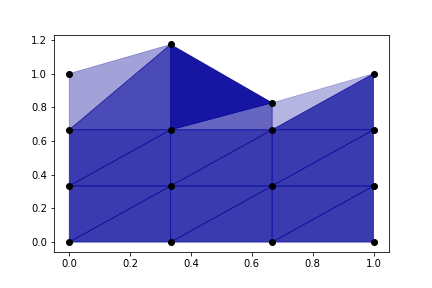
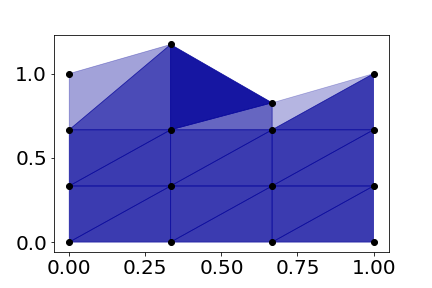
Malha Identificando Contornos

diff --git a/MalhaComContorno.py b/MalhaComContorno.py
@@ -1,0 +1,139 @@
+# -*- coding: utf-8 -*-
+"""
+Created on Wed Jul 28 23:14:35 2021
+
+@author: matheus.sartor
+"""
+
+import os
+from pathlib import Path
+import matplotlib.pyplot as plt
+import numpy as np
+import matplotlib
+       
+def getXYRandom(nx=6,ny=7,Lx = 1, Ly = 1):
+    X = np.random.uniform(0.0,Lx,(nx*ny,1))
+    X = (np.transpose(X.reshape(nx*ny)))
+
+    Y = np.random.uniform(0.0,Ly,(nx*ny,1))
+    Y = (np.transpose(Y.reshape(nx*ny)))
+    Tri = matplotlib.tri.Triangulation(X,Y)
+    return X,Y,Tri
+
+def plotMalhaTri(X,Y,Tri):
+    name = 'MalhaTriangularComContorno'
+    Path(os.path.join('results', name)).mkdir(parents=True, exist_ok=True)
+    IEN = Tri.triangles
+    borda = verificaBorda(X, Y, IEN)
+    ne = IEN.shape[0]
+    npoints = X.shape[0]
+    crit_list = []
+    for e in range(0,ne):
+        [v1,v2,v3] = IEN[e]
+        x1 = X[v1]; x2 = X[v2]; x3 = X[v3]
+        y1 = Y[v1]; y2 = Y[v2]; y3 = Y[v3]
+        a = np.sqrt((x3-x2)**2+(y3-y2)**2)
+        b = np.sqrt((x3-x1)**2+(y3-y1)**2)
+        c = np.sqrt((x2-x1)**2+(y2-y1)**2)
+        s = (a + b + c)/2
+        A = np.sqrt(s*(s-a)*(s-b)*(s-c)) # Formula de Heron
+        ha = 2*A/a
+        hb = 2*A/b
+        hc = 2*A/c
+        crit = ((ha*hb*hc)/(a*b*c))/((np.sqrt(3)/2)**3)
+        crit_list.append(crit)
+        
+    fig, ax = plt.subplots()
+    fig.set_size_inches(10, 10)
+    xy = np.stack((X, Y), axis=-1)
+    verts = xy[borda]
+    ax=plt.gca()
+    pc = matplotlib.collections.PolyCollection(verts,edgecolors=('black',),
+                                               facecolor = 'none',
+                                                 linewidths=(5))
+    ax.add_collection(pc)
+    ax.set_title("Malha de Triângulos Com Contorno")
+    plt.plot(X,Y,'ko')
+    ax = plt.triplot(X,Y,IEN,color='k',linewidth=0.5)
+    ax = plt.plot(X,Y,'ko',markersize=2)
+    for i in range(0,npoints):
+       plt.text(X[i]+0.01,Y[i]+0.01,str(i),size = 'x-small',color='k')
+    for e in range(0,ne):
+        [v1,v2,v3] = IEN[e]
+        xm = ( X[v1]+X[v2]+X[v3] )/3.0
+        ym = ( Y[v1]+Y[v2]+Y[v3] )/3.0
+        draw_circle = plt.Circle((xm+0.01, ym+0.01), 0.025, fill=False, color='gray')
+        plt.text(xm,ym,str(e),size='xx-small',color='gray')
+        plt.gcf().gca().add_artist(draw_circle)
+    plt.gca().set_aspect('equal')
+    plt.tripcolor(Tri, crit_list, edgecolors='k',cmap='Blues',vmin=0,vmax=1)
+    plt.colorbar()
+    plt.savefig(os.path.join('results', name, 'Malha_de_Triangulos_com_Contorno.png'))
+
+def verificaBorda(X,Y,IEN):
+    IENBounds = []
+    arestas_compartilhadas = []
+    arestas_isoladas = []
+    for i in range(0,len(IEN)):
+        [v1,v2,v3] = IEN[i]
+        a1 = [v1,v2]
+        a2 = [v2,v3]
+        a3 = [v3,v1]
+        for j in range(0,len(IEN)):
+            if(i != j):
+                [w1,w2,w3] = IEN[j]
+                a11 = [w1,w2]
+                a22 = [w2,w3]
+                a33 = [w3,w1]
+                a11_ = [w2,w1]
+                a22_ = [w3,w2]
+                a33_ = [w1,w3]
+                a = [a11,a22,a33,a11_,a22_,a33_]
+                if(a1 in a):
+                    arestas_compartilhadas.append(a1)
+                if(a2 in a):
+                    arestas_compartilhadas.append(a2)
+                if(a3 in a):
+                    arestas_compartilhadas.append(a3)
+        if(a1 not in arestas_compartilhadas):
+            arestas_isoladas.append(a1)
+        if(a2 not in arestas_compartilhadas):
+            arestas_isoladas.append(a2)
+        if(a3 not in arestas_compartilhadas):
+            arestas_isoladas.append(a3)
+    IENBounds = organizadorIEN(arestas_isoladas)
+    return IENBounds
+
+def organizadorIEN(lista):
+    ## Percorre a lista de arestas isoladas, organizando pelos vertices
+    for i in range(0,len(lista)-1):
+        for j in range(0,len(lista)):
+            if(lista[i][1] == lista[j][0]):
+                lista_org = lista[i+1]
+                lista[i+1] = lista[j]
+                lista[j] = lista_org
+    ## Separa os contornos diferentes (ex.: externo e interno(buracos))
+    split = []
+    n = 0
+    for m in range(0,len(lista)):
+        if(lista[m-1][1]!=lista[m][0]):
+            split.append(lista[i:m])
+            i = m
+    split.append(lista[n:])
+    ## Armazena numa IEN os diferentes contornos, 
+    ## identificando tanto os externos quanto internos
+    IENs = []
+    for b in range(0,len(split)):
+        contorno = split[b]    
+        IEN = np.zeros((len(contorno),1),dtype=int)
+        IEN[0] = contorno[0][0]
+        for k in range(0,len(contorno)-1):
+            IEN[k+1] = contorno[k][1]
+        IEN = IEN.reshape((1,len(contorno)))
+        IENs.append(IEN)
+    return IENs
+        
+
+if __name__ == '__main__':
+    X,Y,Tri = getXYRandom()
+    plotMalhaTri(X,Y,Tri)

diff --git a/MalhaRandom.py b/MalhaRandom.py
@@ -44,13 +44,22 @@ def plotMalhaTri(X,Y,Tri):
         crit_list.append(crit)
         
     fig, ax = plt.subplots()
+    fig.set_size_inches(10, 10)
     ax.set_aspect('equal')
     ax.set_title("Malha de Triângulos")
 
     ax = plt.triplot(X,Y,IEN,color='k',linewidth=0.5)
     ax = plt.plot(X,Y,'ko',markersize=2)
     for i in range(0,npoints):
-        plt.text(X[i]+0.02,Y[i]+0.03,str(i),color='k')
+        plt.text(X[i]+0.01,Y[i]+0.01,str(i),size='x-small',color='k')
+    for e in range(0,ne):
+        [v1,v2,v3] = IEN[e]
+        xm = ( X[v1]+X[v2]+X[v3] )/3.0
+        ym = ( Y[v1]+Y[v2]+Y[v3] )/3.0
+        draw_circle = plt.Circle((xm+0.01, ym+0.01), 0.025, fill=False, color='gray')
+        plt.text(xm,ym,str(e),size='xx-small',color='gray')
+        plt.gcf().gca().add_artist(draw_circle)
+
     plt.gca().set_aspect('equal')
     plt.tripcolor(Tri, crit_list, edgecolors='k',cmap='Blues',vmin=0,vmax=1)
     plt.colorbar()
